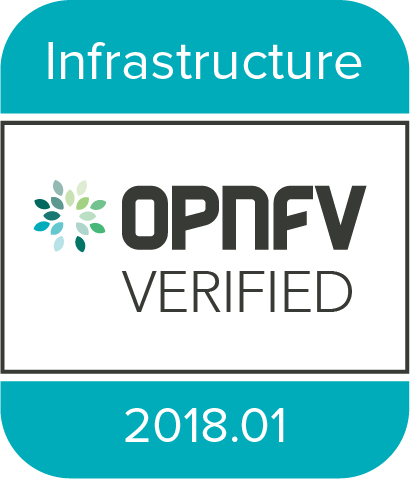
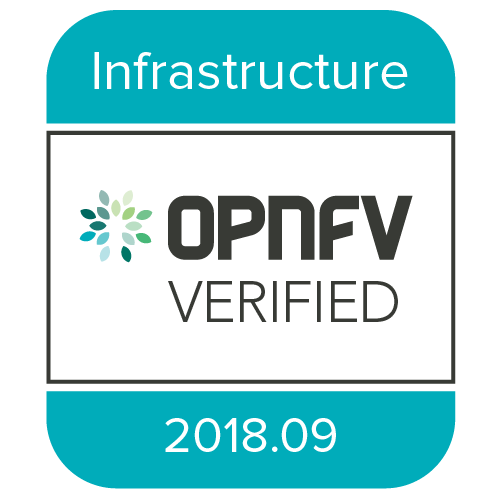
Update marketing message on web portal for release
Updating the web portal for release:

* marketing message
* 2018.09 badge
* link to updated participation form

diff --git a/3rd_party/static/testapi-ui/components/home/home.html b/3rd_party/static/testapi-ui/components/home/home.html
@@ -29,7 +29,7 @@
                                    target="_blank">Process Workflow&nbsp<span class="glyphicon glyphicon-new-window" aria-hidden="true"></span></a>
                             </div>
                             <div>
-                                <a href="https://na3.docusign.net/Member/PowerFormSigning.aspx?PowerFormId=579ac00d-0a1f-4db3-82ea-ddd977769a60"
+                                <a href="https://na3.docusign.net/Member/PowerFormSigning.aspx?PowerFormId=e5ac4719-9285-4e99-a49c-6b22c1cb02e6"
                                    target="_blank">Participation Form&nbsp<span class="glyphicon glyphicon-new-window" aria-hidden="true"></span></a>
                             </div>
                             <div><a href="https://www.opnfv.org/wp-content/uploads/sites/12/2018/05/OPNFV_Verified_BrandGuide_021618.pdf"
@@ -147,7 +147,7 @@
         <div class="col-md-10">
             <div class="common-main-container">
                 <div class="home-content-title">
-                    <h1>OPNFV is offering an OPNFV Verified Program (OVP) that verifies products and services with the "OPNFV Verified" mark.</h1>
+                    <h1>OPNFV Verified Program verifies products and services with the "OPNFV Verified" mark.</h1>
                 </div>
                 <div class="home-content">
                     <div class="col-md-2">
@@ -155,11 +155,19 @@
                     </div>
                     <div class="col-md-10">
                         <p class="home-content-text" style="padding-bottom:40px;">
-                            The OPNFV Verified program demonstrates the readiness and availability of commercial products based on OPNFV.
-                            Verified products and services submitted by vendors and service providers become compliant by implementing explicitly defined interfaces,
-                            behaviors and key features while retaining distinct and value-added innovations across features and capabilities.
-                            Navigate through the links in the left-hand menu to learn more and get started. You'll find step-step-instructions as well as a participation form.
-                            Use this portal to upload your test results when ready. Please send any questions to verified@opnfv.org<sup><span class="glyphicon glyphicon-envelope" style="font-size:60%;" aria-hidden="true"></span></sup>.
+                            The OPNFV Verified Program (OVP) demonstrates the readiness and availability of commercial
+                            NFV products and services by implementing explicitly defined interfaces, behaviors and key
+                            features. This open source community-led initiative allows vendors and service providers to
+                            establish baseline conformance and interoperability while retaining distinct and value-added
+                            innovations across features and capabilities. Now in it's second iteration, the program has
+                            doubled the number of mandatory tests from 215 to 443; and in addition to VNF deployment,
+                            requires verified products to complete additional functional, high-availability, and
+                            NFV-focused tests. Future plans for OVP include adding third-party labs, as well as testing
+                            and verification of VNF deployments. View the directory of verified products and services
+                            below and navigate through the links in the left-hand menu to learn more and get started.
+                            You'll find step-step-instructions as well as a participation form. Use this portal to
+                            upload your test results when ready. Please send any questions to verified@opnfv.org<sup>
+                            <span class="glyphicon glyphicon-envelope" style="font-size:60%;" aria-hidden="true"></span></sup>.
                         </p>
                     </div>
                 </div>
@@ -180,7 +188,7 @@
                                 </tr>
                             </thead>
                             <tbody style="overflow: hidden; text-overflow: ellipsis;">
-                                <tr class="company_row" ng-click="ctrl.getCompany(app)" ng-repeat="app in ctrl.applications | filter:{approved:true} | orderBy : 'approve_date'">
+                                <tr class="company_row" ng-click="ctrl.getCompany(app)" ng-repeat="app in ctrl.applications | filter:{approved:true} | orderBy : '-approve_date'">
                                     <td width="400"><img class="company_logo" src="api/v1/cvp/applications/getlogo/{{app.company_logo}}" />{{ app.organization_name}}</td>
                                     <td width="300">{{ app.product_name}}</td>
                                     <td width="150">{{ app.ovp_category}}</td>
